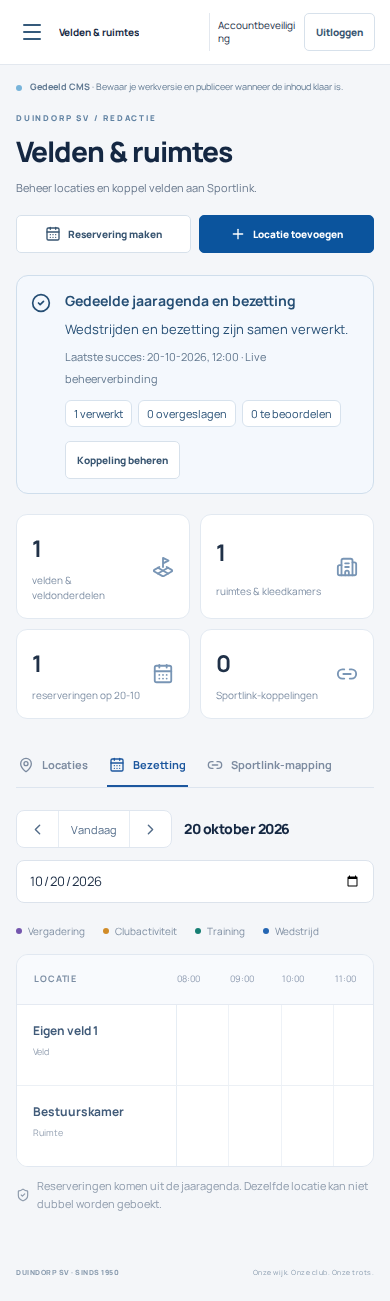
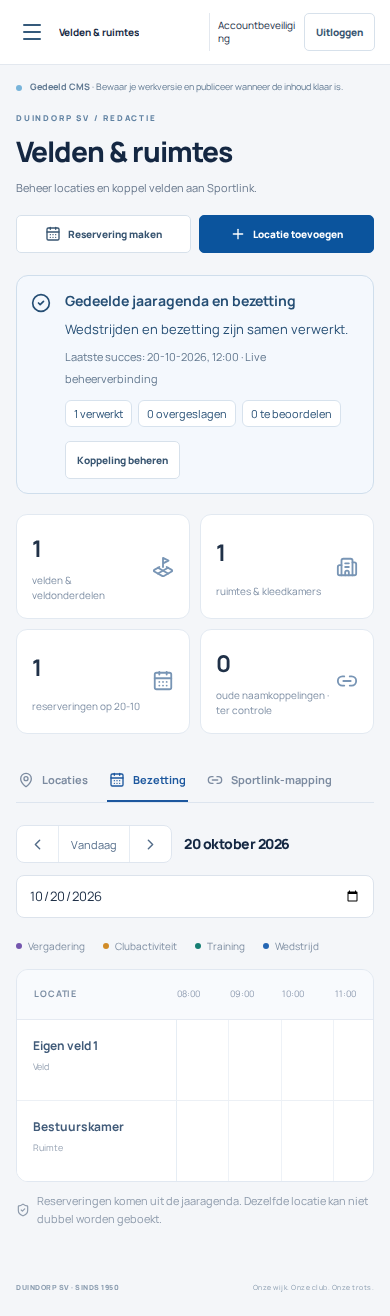
Keep planning reads consistent and renew readiness during long source jobs

diff --git a/components/cms/locations-manager.tsx b/components/cms/locations-manager.tsx
@@ -51,7 +51,7 @@ export function LocationsManager({mode='locations',onOpenActivity}:{mode?:'locat
  const pageHeader=useCmsPageHeader({actions:<div className="cloc-intro-actions"><button className="cms-button" disabled={!can('pages')||saving} onClick={()=>onOpenActivity?.(undefined,date)}><CalendarDays size={16}/>Reservering maken</button><button className="cms-button primary" onClick={()=>open()} disabled={!editable||saving}><Plus size={16}/>Locatie toevoegen</button></div>});
  return <div className="cms-admin cloc">{pageHeader}<PlanningSyncStatus/>
 
-  <div className="cloc-stats"><div><LandPlot/><strong>{active.filter(l=>l.type==='field').length}</strong><span>velden & veldonderdelen</span></div><div><Building2/><strong>{active.filter(l=>l.type!=='field').length}</strong><span>ruimtes & kleedkamers</span></div><div><CalendarDays/><strong>{activities.reduce((n,a)=>n+a.locationIds.length,0)}</strong><span>reserveringen op {date.slice(8)}-{date.slice(5,7)}</span></div><div><Link2/><strong>{active.filter(l=>l.sportlinkFieldName).length}</strong><span>Sportlink-koppelingen</span></div></div>
+  <div className="cloc-stats"><div><LandPlot/><strong>{active.filter(l=>l.type==='field').length}</strong><span>velden & veldonderdelen</span></div><div><Building2/><strong>{active.filter(l=>l.type!=='field').length}</strong><span>ruimtes & kleedkamers</span></div><div><CalendarDays/><strong>{activities.reduce((n,a)=>n+a.locationIds.length,0)}</strong><span>reserveringen op {date.slice(8)}-{date.slice(5,7)}</span></div><div><Link2/><strong>{active.filter(l=>l.sportlinkFieldName).length}</strong><span>oude naamkoppelingen · ter controle</span></div></div>
   <div className="cloc-tabs" role="tablist" aria-label="Locaties en reserveringen">{[{id:'locations',name:'Locaties',icon:MapPin},{id:'reservations',name:'Bezetting',icon:CalendarDays},{id:'mapping',name:'Sportlink-mapping',icon:Link2}].map(t=><button key={t.id} role="tab" aria-selected={view===t.id} onClick={()=>setView(t.id as typeof view)}><t.icon size={16}/>{t.name}</button>)}</div>
   {view==='locations'&&<><div className="cloc-tools"><label className="cloc-search"><Search size={17}/><input value={query} onChange={e=>setQuery(e.target.value)} placeholder="Zoek een locatie…" aria-label="Zoek locatie"/></label><select value={kind} onChange={e=>setKind(e.target.value)} aria-label="Type locatie"><option value="">Alle locaties</option><option value="field">Velden</option><option value="room">Ruimtes</option><option value="changing">Kleedkamers</option></select><span>{visible.length} locaties</span></div><div className="cloc-grid">{pagination.items.map(l=>{const Icon=icons[l.type];const bookings=activities.filter(a=>a.locationIds.some(id=>locationsOverlap(locations,id,l.id)));return <button className={`cloc-card ${!l.active?'inactive':''}`} key={l.id} onClick={()=>open(l)}><div className="cloc-card-top"><span className={`cloc-icon ${l.type}`}><Icon size={24}/></span><span className={`cloc-status ${!l.active?'off':''}`}>{l.active?'Actief':'Inactief'}</span></div><small>{labels[l.type]}{l.parentId?` · ${locations.find(x=>x.id===l.parentId)?.name||'Veldonderdeel'}`:''}</small><h3>{l.name}</h3><p>{l.description||'Beschikbaar voor activiteiten van de club.'}</p><div className="cloc-card-meta"><span>{l.type==='field'?<Link2 size={14}/>:<UsersIcon/>}{l.type==='field'?(l.sportlinkFieldName||'Geen Sportlink-mapping'):(l.capacity?`${l.capacity} personen`:'Capaciteit niet opgegeven')}</span></div><div className="cloc-card-foot"><span><Clock3 size={14}/>{bookings.length?`${bookings.length} reservering${bookings.length===1?'':'en'} op ${date.slice(8)}-${date.slice(5,7)}`:`Vrij op ${date.slice(8)}-${date.slice(5,7)}`}</span><ArrowRight size={16}/></div></button>})}</div><Pagination label="Locaties" {...pagination}/>{!visible.length&&<div className="cms-empty">Geen locaties gevonden. Pas je zoekopdracht aan of voeg een locatie toe.</div>}</>}
   {view==='reservations'&&<><div className="cloc-reservation-tools"><div className="cloc-date-nav"><button aria-label="Vorige dag" onClick={()=>setDate(shift(date,-1))}><ChevronLeft size={17}/></button><button onClick={()=>setDate(today())}>Vandaag</button><button aria-label="Volgende dag" onClick={()=>setDate(shift(date,1))}><ChevronRight size={17}/></button></div><h3>{dateLabel(date)}</h3><input type="date" aria-label="Datum bezetting" value={date} onChange={e=>e.target.value&&setDate(e.target.value)}/></div><div className="cloc-legend">{Object.entries(colors).map(([type,color])=><span key={type}><i style={{background:color}}/>{({meeting:'Vergadering',event:'Clubactiviteit',training:'Training',match:'Wedstrijd'})[type]}</span>)}</div><div className="cloc-timeline-scroll"><div className="cloc-timeline"><div className="cloc-timeline-head"><strong>LOCATIE</strong><div>{Array.from({length:16},(_,i)=><span key={i}>{String(i+8).padStart(2,'0')}:00</span>)}</div></div>{active.map(l=>{const bookings=layoutReservations(activities,locations,l.id);return <div className="cloc-timeline-row" key={l.id}><button onClick={()=>open(l)}><span>{l.name}</span><small>{labels[l.type]}</small></button><div className="cloc-track" style={{minHeight:Math.max(76,bookings.reduce((n,b)=>Math.max(n,b.lane+1),1)*58+22)}}>{bookings.map(({activity:a,lane,indirect})=>{const start=Math.max(480,minutes(a.startTime)),end=Math.min(1440,minutes(a.endTime));if(end<=start)return null;return <button key={a.id} className={`cloc-booking ${indirect?'cloc-booking-indirect':''}`} style={{...(a.type==='match'?matchColors(a):{}),left:`${(start-480)/960*100}%`,width:`${(end-start)/960*100}%`,top:11+lane*58,height:54,bottom:'auto',...(a.type==='match'?matchColors(a):{borderColor:colors[a.type],background:`${colors[a.type]}15`,color:colors[a.type]})}} onClick={()=>onOpenActivity?.(a.id)} title={`${indirect?'Geblokkeerd via gekoppeld veld: ':''}${a.title} · ${a.startTime}–${a.endTime}`}><strong>{indirect?'Geblokkeerd · ':''}{a.title}</strong><span>{a.startTime}–{a.endTime}{a.type==='match'?' · '+matchSideLabel(a):''} · {a.sourceData?.locationIds.includes(l.id)?'Sportlink':'Handmatig'}</span></button>})}</div></div>})}</div></div><p className="cloc-footnote"><ShieldCheck size={14}/>Reserveringen komen uit de jaaragenda. Dezelfde locatie kan niet dubbel worden geboekt.</p>{activities.some(a=>minutes(a.startTime)<480)&&<p className="cloc-footnote">Er zijn activiteiten vóór 08:00. Bekijk deze in de jaaragenda.</p>}</>}

diff --git a/tests/helpers/sportlink-repository.ts b/tests/helpers/sportlink-repository.ts
@@ -1,3 +1,4 @@
+import {renewJobLease} from '../../lib/server/worker';
 import {accommodationEvidence} from '../../lib/server/sportlink-identity';
 import {planningSyncStatus} from '../../lib/server/planning-revision';
 import {syncSportlinkMatches} from '../../lib/server/sportlink-planning';
@@ -37,6 +38,9 @@ export async function verifySportlinkRepository(sql:any){
  try{
   await cachedSportlinkArticle('teams',{fixture:suffix});const after=calls;await cachedSportlinkArticle('teams',{fixture:suffix});assert.equal(calls,after,'catalog TTL avoids unnecessary provider calls');
   const operation=crypto.randomUUID(),queued=await queueSportlinkSync(actor,'teams',operation);assert.ok(queued.id);assert.equal((await queueSportlinkSync(actor,'teams',operation)).id,queued.id);
+  await sql`update cms_jobs set status='processing',lease_owner='test-live-worker',lease_until=now()-interval '10 seconds' where id=${queued.id}`;await sql`insert into cms_heartbeats(id,at) values ('worker','2000-01-01T00:00:00Z') on conflict(id) do update set at=excluded.at`;
+  await renewJobLease(queued.id,'wrong-worker');assert.equal(new Date((await sql`select at from cms_heartbeats where id='worker'`)[0].at).getUTCFullYear(),2000);
+  await renewJobLease(queued.id,'test-live-worker');assert.ok(Date.now()-new Date((await sql`select at from cms_heartbeats where id='worker'`)[0].at).getTime()<5000);assert.ok(new Date((await sql`select lease_until from cms_jobs where id=${queued.id}`)[0].lease_until).getTime()-Date.now()>50000);await sql`update cms_jobs set status='done',lease_owner=null,lease_until=null where id=${queued.id}`;
   await processSportlinkSync({dataset:'teams',actorId},queued.id);const [team]=await sql`select active from sportlink_teams where id='991001:-1'`;assert.equal(team.active,1);
   await processSportlinkSync({dataset:'assignments',actorId},crypto.randomUUID());const [match]=await sql`select id,draft,live,version from cms_records where module='activities' and draft->>'sourceId'='BBGV51U:991009'`;
   assert.ok(match);assert.equal(match.live,null);assert.equal(match.draft.public,false);assert.deepEqual(new Set(match.draft.locationIds),new Set([fieldId,roomId]));assert.equal(match.draft.endTime,'21:30');
@@ -87,6 +91,6 @@ export async function verifySportlinkRepository(sql:any){
   const provider=globalThis.fetch;let unblock!:(response:Response)=>void,started!:()=>void,leaseCalls=0;const pending=new Promise<void>(resolve=>started=resolve);
   globalThis.fetch=async()=>{if(++leaseCalls===1){started();return new Promise<Response>(resolve=>unblock=resolve);}return Response.json([{score:'NEW'}]);};
   try{const first=cachedSportlinkArticle('uitslagen',cacheParams,{force:true,settings:defaultSportlinkSettings()});await pending;await sql`update sportlink_cache set expires_at=0,refresh_after=0 where cache_key=${cacheKey}`;await new Promise(resolve=>setTimeout(resolve,2));const second=await cachedSportlinkArticle('uitslagen',cacheParams,{force:true,settings:defaultSportlinkSettings()});unblock(Response.json([{score:'OLD'}]));await first;assert.equal((second.value as any)[0].score,'NEW');assert.equal(JSON.parse((await sql`select payload_json from sportlink_cache where cache_key=${cacheKey}`)[0].payload_json)[0].score,'NEW','a lost lease cannot overwrite a newer source response');}finally{globalThis.fetch=provider;}
-  return {passed:true,checks:['private versioned config','calendar catalog cache','durable idempotent queue','real source field and changing-room mapping','no guessed venue mapping','source imports internal','match identity idempotent','only stable visible member IDs','no raw contact cache','source outage preserves active teams','manage permission','paused scheduler','own park context blocks equal names elsewhere','source refresh retains manual extras','stale version rejected','source cancellation releases bookings','failed fetch preserves full roster','late transactional conflict rolls back every match and index','live source patch preserves unpublished description','detail refresh immediately enters shared stream']};
+  return {passed:true,checks:['long job renews lease and readiness heartbeat only for current owner','private versioned config','calendar catalog cache','durable idempotent queue','real source field and changing-room mapping','no guessed venue mapping','source imports internal','match identity idempotent','only stable visible member IDs','no raw contact cache','source outage preserves active teams','manage permission','paused scheduler','own park context blocks equal names elsewhere','source refresh retains manual extras','stale version rejected','source cancellation releases bookings','failed fetch preserves full roster','late transactional conflict rolls back every match and index','live source patch preserves unpublished description','detail refresh immediately enters shared stream']};
  }finally{globalThis.fetch=originalFetch;if(originalClient===undefined)delete process.env.SPORTLINK_CLIENT_ID;else process.env.SPORTLINK_CLIENT_ID=originalClient;}
 }

diff --git a/tests/e2e/planning-live-source.spec.ts b/tests/e2e/planning-live-source.spec.ts
@@ -20,7 +20,7 @@ test('a real source transaction updates two open CMS sessions and protects an op
  let start='18:00',cancelled=false;const config=defaultSportlinkSettings();config.clubCode=clubCode;config.ownPark={id:'synthetic-browser-park-'+tag,name:accommodation.naam,verificationNote:'Geïsoleerde browserfixture, geen productie-identiteit'};config.parkConfirmations=[{matchId:'19990091',accommodationId:config.ownPark.id,sourceFingerprint:accommodationEvidence({accommodatie:accommodation}).fingerprint}];
  const bootstrap=await (async()=>{await loginWithEmailCode(page,owner.email);return page.request.get('/api/cms/bootstrap').then(r=>r.json());})();
  config.teamMappings=[{cmsTeamId:bootstrap.state.settings.teams[0].id,teamId:'19990001:-1'}];config.locationMappings=[{sourceType:'field',sourceValue:'Browserveld',locationId:fieldId,clubCode,accommodationId:config.ownPark.id,confirmed:true}];
- const otherContext=await browser.newContext(),other=await otherContext.newPage();
+ const otherContext=await browser.newContext({baseURL:new URL(page.url()).origin}),other=await otherContext.newPage();
  try{
   await mutate(actor,[{module:'locations',id:fieldId,expectedVersion:0,action:'save',data:{id:fieldId,name:'Browserveld '+tag,type:'field',capacity:22,description:'',active:true,sportlinkFieldName:'',color:'#356da7'}},{module:'sportlinkSettings',id:'site-sportlink',expectedVersion:before.version,action:'save',data:config}],crypto.randomUUID(),crypto.randomUUID());
   process.env.SPORTLINK_CLIENT_ID='synthetic-browser-source-'+tag;
@@ -34,7 +34,7 @@ test('a real source transaction updates two open CMS sessions and protects an op
   await home.click();const dialog=page.getByRole('dialog');await dialog.getByLabel('Omschrijving of praktische informatie',{exact:true}).fill('Mijn nog niet opgeslagen voorbereiding');
   await loginWithEmailCode(other,owner.email);await other.goto('/beheer#locaties');await expect(other.getByRole('tab',{name:'Bezetting',exact:true})).toHaveAttribute('aria-selected','true');const booking=other.locator('.cloc-booking').filter({hasText:tag}).first();await expect(booking).toContainText('18:00');
   start='18:15';await refresh();await expect(booking).toContainText('18:15');await expect(dialog.getByRole('alert')).toContainText('18:15');await expect(dialog.getByLabel('Omschrijving of praktische informatie',{exact:true})).toHaveValue('Mijn nog niet opgeslagen voorbereiding');await expect(dialog.getByRole('button',{name:'Activiteit opslaan',exact:true})).toBeDisabled();
-  const a=await page.request.get('/api/cms/bootstrap').then(r=>r.json()),b=await other.request.get('/api/cms/bootstrap').then(r=>r.json());expect(a.state.planning.activities.find((v:any)=>v.id===homeId).sourceData.batchRevision).toBe(b.state.planning.activities.find((v:any)=>v.id===homeId).sourceData.batchRevision);
+  const a=await page.request.get('/api/cms/bootstrap').then(r=>r.json()),b=await other.request.get('/api/cms/bootstrap').then(r=>r.json());expect(a.planningSync.revision).toBe(b.planningSync.revision);expect(a.state.planning.activities.find((v:any)=>v.id===homeId).sourceData.batchRevision).toBe(b.state.planning.activities.find((v:any)=>v.id===homeId).sourceData.batchRevision);
   await other.getByRole('tab',{name:'Locaties',exact:true}).click();cancelled=true;await refresh();await expect(dialog.getByRole('alert')).toContainText('Afgelast');await expect(other.getByRole('tab',{name:'Locaties',exact:true})).toHaveAttribute('aria-selected','true');await other.getByRole('tab',{name:'Bezetting',exact:true}).click();await expect(other.locator('.cloc-booking').filter({hasText:tag})).toHaveCount(0);
   expect((await sql`select count(*)::int as n from cms_activity_reservations where activity_id=${homeId}`)[0].n).toBe(0);
  }finally{

diff --git a/components/cms/provider.tsx b/components/cms/provider.tsx
@@ -20,7 +20,7 @@ export function CmsProvider({children,initialState,preview=false}:{children:Reac
  const [state,setState]=useState<CmsState>(initialState||empty),current=useRef(state),versions=useRef<Record<string,number>>({}),user=useRef<User|null>(null),[ready,setReady]=useState(!!initialState),[roleId,setRoleId]=useState(''),[notice,notify]=useState(''),[storageError,setStorageError]=useState(''),[storageConflictId,setStorageConflictId]=useState(''),[saving,setSaving]=useState(false),chain=useRef(Promise.resolve());
  const [planningSync,setPlanningSync]=useState<PlanningSyncStatus|null>(null),[planningConnected,setPlanningConnected]=useState(false),reloadEpoch=useRef(0),updatePending=useRef(false),refreshPending=useRef(false);
  const clearStorageError=useCallback(()=>{setStorageError('');setStorageConflictId('');},[]);
- const reload=useCallback(async()=>{if(initialState)return;const epoch=++reloadEpoch.current;const response=await fetch('/api/cms/bootstrap',{cache:'no-store'});const data=await response.json();if(!response.ok)throw new Error(data.message||'Clubbeheer laden is mislukt.');if(epoch!==reloadEpoch.current)return;for(const record of current.current.media)if(!data.state.media.some((m:any)=>m.id===record.id)){data.state.media.push(record);data.versions[record.id]=versions.current[record.id];}current.current=data.state;versions.current=data.versions;user.current=data.principal;setRoleId(data.principal.roleId);setState(data.state);setReady(true);},[initialState]);
+ const reload=useCallback(async()=>{if(initialState)return;const epoch=++reloadEpoch.current;const response=await fetch('/api/cms/bootstrap',{cache:'no-store'});const data=await response.json();if(!response.ok)throw new Error(data.message||'Clubbeheer laden is mislukt.');if(epoch!==reloadEpoch.current)return;for(const record of current.current.media)if(!data.state.media.some((m:any)=>m.id===record.id)){data.state.media.push(record);data.versions[record.id]=versions.current[record.id];}current.current=data.state;versions.current=data.versions;user.current=data.principal;setRoleId(data.principal.roleId);setState(data.state);if(data.planningSync)setPlanningSync(data.planningSync);setReady(true);},[initialState]);
  useEffect(()=>{if(initialState)return;reload().catch(e=>{setStorageError(e.message);setReady(true);});},[initialState,reload]);
  useEffect(()=>{if(!notice)return;const t=setTimeout(()=>notify(''),6000);return()=>clearTimeout(t);},[notice]);
  useEffect(()=>{if(initialState||!ready||!user.current||typeof EventSource==='undefined')return;

diff --git a/lib/server/worker.ts b/lib/server/worker.ts
@@ -13,6 +13,8 @@ import {listObjects,deleteObject} from './storage';
 import {analyzeNewsSession,processNewsBatch,failNewsJob,cleanExpiredNews} from './news-imports';
 import {CmsError} from './errors';
 import {processSportlinkSync} from './sportlink-sync';
+/** Only the worker that still owns the task may keep its lease and readiness heartbeat alive. */
+export async function renewJobLease(jobId:string,workerId:string){return sqlClient()`with owned as (update cms_jobs set lease_until=now()+interval '60 seconds' where id=${jobId} and lease_owner=${workerId} and status='processing' returning id) insert into cms_heartbeats(id,at) select 'worker',now() from owned where true on conflict(id) do update set at=excluded.at`;}
 export async function runOnce(workerId = crypto.randomUUID()) {
     const sql = sqlClient();
     await storageReady();
@@ -22,7 +24,7 @@ export async function runOnce(workerId = crypto.randomUUID()) {
     if (!job)
         return false;
     let status = 'done';
-    const renewal=setInterval(()=>{void sql`update cms_jobs set lease_until=now()+interval '60 seconds' where id=${job.id} and lease_owner=${workerId} and status='processing'`.catch(()=>{});},20000);
+    const renewal=setInterval(()=>{void renewJobLease(job.id,workerId).catch(()=>{});},20000);
     try {
         if(job.kind==='sportlink-sync')await processSportlinkSync(job.payload,job.id);
         else if(['news-analyze','news-import'].includes(job.kind)){

diff --git a/lib/server/planning-revision.ts b/lib/server/planning-revision.ts
@@ -10,7 +10,7 @@ export async function bumpPlanningRevision(tx:any,patch:Partial<PlanningSyncStat
  await tx`insert into sportlink_cache(cache_key,payload_json,updated_at,expires_at,refresh_after) values (${PLANNING_REVISION_KEY},${JSON.stringify(state)},${Date.now()},0,0) on conflict(cache_key) do update set payload_json=excluded.payload_json,updated_at=excluded.updated_at`;
  return state as PlanningSyncStatus;
 }
-export async function planningSyncStatus():Promise<PlanningSyncStatus>{
- const sql=sqlClient(),[row]=await sql`select payload_json from sportlink_cache where cache_key=${PLANNING_REVISION_KEY}`;
- const config=await readSportlinkSettings();return {...(row?.payload_json?JSON.parse(row.payload_json):{revision:'initial',status:'never'}),configured:config.configured&&!!config.settings.clubCode,credentialConfigured:!!process.env.SPORTLINK_CLIENT_ID};
+export async function planningSyncStatus(transaction?:any):Promise<PlanningSyncStatus>{
+ const sql=transaction||sqlClient(),[row]=await sql`select payload_json from sportlink_cache where cache_key=${PLANNING_REVISION_KEY}`;
+ const config=await readSportlinkSettings(transaction,true);return {...(row?.payload_json?JSON.parse(row.payload_json):{revision:'initial',status:'never'}),configured:config.configured&&!!config.settings.clubCode,credentialConfigured:!!process.env.SPORTLINK_CLIENT_ID};
 }

diff --git a/app/api/cms/[...path]/route.ts b/app/api/cms/[...path]/route.ts
@@ -1,3 +1,4 @@
+import {planningSyncStatus} from '@/lib/server/planning-revision';
 import {z} from 'zod';
 import {listPagination} from '@/lib/server/pagination';
 import {sqlClient} from '@/db';
@@ -12,7 +13,7 @@ export async function GET(request:Request,{params}:{params:Promise<{path:string[
  const p=await principal(request.headers),{path}=await params,sql=sqlClient();
  if(path[0]==='newsletter'&&path.length===1)return Response.json(await listSubscribers(p,Object.fromEntries(new URL(request.url).searchParams)),{headers:{'Cache-Control':'no-store'}});
  if(path[0]==='bootstrap'){
-  const result=await loadState(false,p);result.state.roles=[{id:p.roleId,name:p.roleId,description:'',permissions:cmsPermissions(p),teamScoped:p.teamScoped}];
+  const result=await sql.begin('isolation level repeatable read read only',async tx=>({...await loadState(false,p,tx),planningSync:await planningSyncStatus(tx)}));result.state.roles=[{id:p.roleId,name:p.roleId,description:'',permissions:cmsPermissions(p),teamScoped:p.teamScoped}];
   result.state.members=[{id:p.id,name:p.name,email:p.email,roleId:p.roleId,teamIds:p.teams,active:true}];
   return Response.json({...result,principal:p},{headers:{'Cache-Control':'no-store'}});
  }

diff --git a/ops/sportlink.md b/ops/sportlink.md
@@ -63,8 +63,8 @@ Een adresfingerprint vervangt geen bron-ID. De eigen park-ID moet extern worden 
 
 Zowel een verse programmabron als een verse `wedstrijd-informatie`-response gaan vóór publicatie van hun cache door hetzelfde serverpad. Detailresponses van een programmabatch worden eerst in geheugen verzameld, met maximaal vier gelijktijdige verzoeken en een begrensde looptijd. De bestaande bronpolling blijft de transportbron; Sportlink biedt hier geen realtime bronpush.
 
-Een databaselease voorkomt parallelle bronverwerking. De definitieve transactie gebruikt dezelfde advisory lock als handmatige boekingen. Zij hercontroleert actuele instellingen en bevoegdheden, verwerkt activiteiten en annuleringen, herbouwt reserveringen, bewaart de controlelijst en schrijft pas daarna de gedeelde bronrevisie. Een late fout draait alle eerder gestagede wijzigingen terug. Een bezette automatische bronlocatie blijft ter beoordeling open; een conflicterende bewuste handmatige nevenreservering wordt nooit stilzwijgend verwijderd. Een wedstrijd die ontbreekt buiten het opgehaalde venster wordt niet verwijderd. Nieuwere waarnemingen kunnen niet door een tragere oude response worden teruggedraaid.
+Een databaselease voorkomt parallelle bronverwerking. Tijdens langere taken verlengt de worker zijn taaklease en heartbeat, zodat een actieve bronverwerking de bestaande readinessgrens niet overschrijdt. De definitieve transactie gebruikt dezelfde advisory lock als handmatige boekingen. Zij hercontroleert actuele instellingen en bevoegdheden, verwerkt activiteiten en annuleringen, herbouwt reserveringen, bewaart de controlelijst en schrijft pas daarna de gedeelde bronrevisie. Een late fout draait alle eerder gestagede wijzigingen terug. Een bezette automatische bronlocatie blijft ter beoordeling open; een conflicterende bewuste handmatige nevenreservering wordt nooit stilzwijgend verwijderd. Een wedstrijd die ontbreekt buiten het opgehaalde venster wordt niet verwijderd. Nieuwere waarnemingen kunnen niet door een tragere oude response worden teruggedraaid.
 
-De SSE-route stuurt alleen private revisie/statusgegevens en controleert periodiek opnieuw de actieve sessie. Ze leest opgeslagen databasewijzigingen, doet geen Sportlink-aanvragen en voegt geen onafhankelijk bezettingspollschema toe. De browser laadt bij een revisiewijziging de actuele geautoriseerde CMS-state. Bij een onderbroken verbinding wordt dat zichtbaar; na herstel wordt de gedeelde toestand opnieuw geladen.
+De SSE-route stuurt alleen private revisie/statusgegevens en controleert periodiek opnieuw de actieve sessie. Ze leest opgeslagen databasewijzigingen, doet geen Sportlink-aanvragen en voegt geen onafhankelijk bezettingspollschema toe. De browser laadt bij een revisiewijziging de actuele geautoriseerde CMS-state. De bootstrap leest inhoud, versies en revisie samen in één read-only repeatable-read-transactie, zodat de response één consistent moment weergeeft. Bij een onderbroken verbinding wordt dat zichtbaar; na herstel wordt de gedeelde toestand opnieuw geladen.
 
 Tijdens een geopende bewerking blijft de lokale tekst staan. Bij een nieuwe activiteitversie verschijnt een melding met de actuele tijd/status en wordt opslaan geblokkeerd. Kopieer eigen wijzigingen indien nodig en kies **Actuele activiteit laden**. Ook een directe oude API-mutatie blijft door `expectedVersion` en de bronvergrendeling geweigerd. Alleen bronvelden worden in bestaande publicaties doorgewerkt; lokale beschrijvingen, publicatiekeuzes en conceptinhoud worden niet automatisch gepubliceerd.

diff --git a/design/verified-sportlink-planning-2026-10-20/README.md b/design/verified-sportlink-planning-2026-10-20/README.md
@@ -28,7 +28,7 @@ De screenshots tonen gecontroleerde presentatievoorbeelden, geen geslaagde live 
 ## Belangrijkste gewijzigde bestanden
 
 - Broncontract en identiteit: `lib/server/sportlink-identity.ts`, `lib/server/sportlink-client.ts`, `lib/sportlink-normalize.ts`, `lib/sportlink-team-normalize.ts` en beide publieke serveradapters.
-- Centrale verwerking: `lib/server/sportlink-planning.ts`, `sportlink-sync.ts`, `sportlink-config.ts`, `planning-revision.ts`, `records.ts`, `planning.ts` en de transactionele principalhercontrole in `permissions.ts`.
+- Centrale verwerking: `lib/server/sportlink-planning.ts`, `sportlink-sync.ts`, `sportlink-config.ts`, `planning-revision.ts`, `records.ts`, `planning.ts`, de lease-/heartbeatverlenging in `worker.ts` en de transactionele principalhercontrole in `permissions.ts`.
 - Private API: `app/api/cms/planning/events/route.ts`, `app/api/cms/sportlink/identity/route.ts` en de bestaande instellingenroute.
 - Model en beheer: `lib/cms/{types,planning,sportlink-settings}.ts`, `components/cms/{provider,planning-board,locations-manager,sportlink-settings-manager,planning-sync-status}` met bijbehorende stijlen.
 - Verificatie: `tests/unit/verified-sportlink-planning.test.ts`, `tests/helpers/sportlink-repository.ts`, `tests/e2e/{planning-live-source,club-planning}.spec.ts`, deze bewijsmap en `ops/sportlink.md`.
